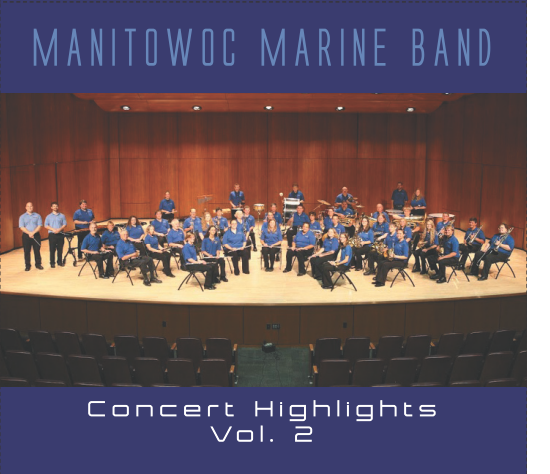
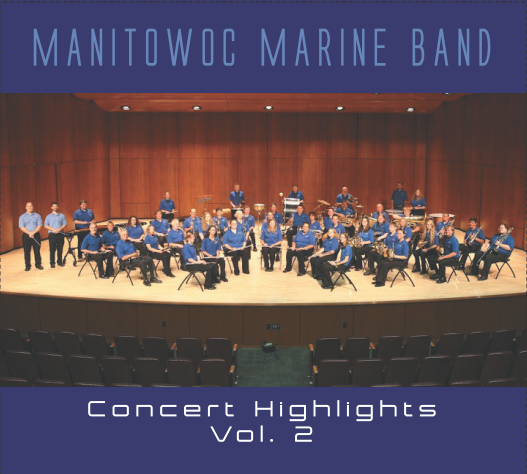
Update CD picture to not have its own padding

diff --git a/assets/style.scss b/assets/style.scss
@@ -189,7 +189,8 @@ a:hover {
 
 	&.CD {
 		img {
-			width:550px;
+			width:527px;
+			margin-right: 38px;
 		}
 	}
 
